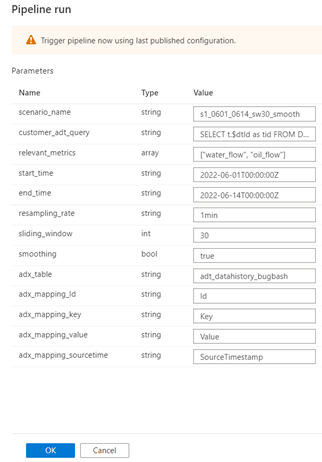
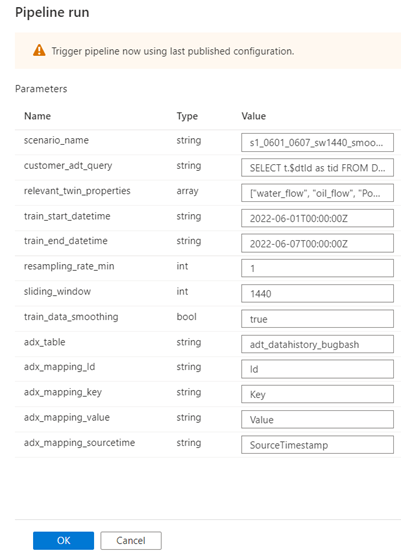
minor update to readme, updated scenario params screenshots

diff --git a/README.md b/README.md
@@ -71,9 +71,6 @@ See the [toolkit's user-guide](./MVADToolkit/README.md/#user-guide), for the det
 
 <br>
 
-## #TODO Toolkit Demo
-#TODO: Add demo video
-
 
 ## Resources
 
